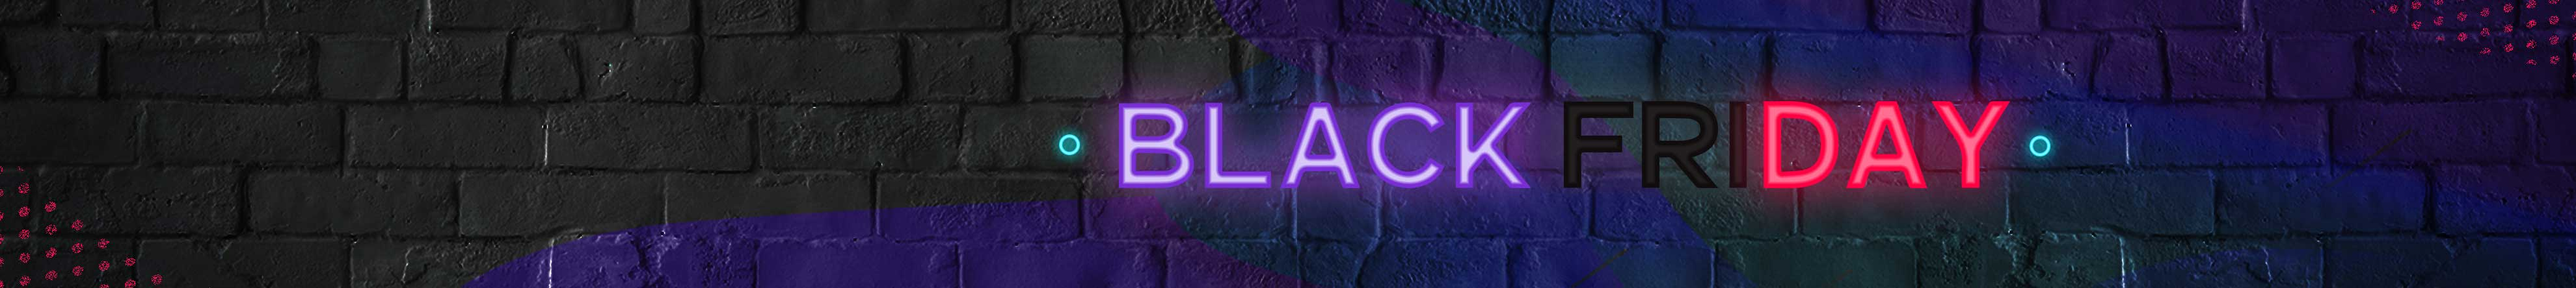
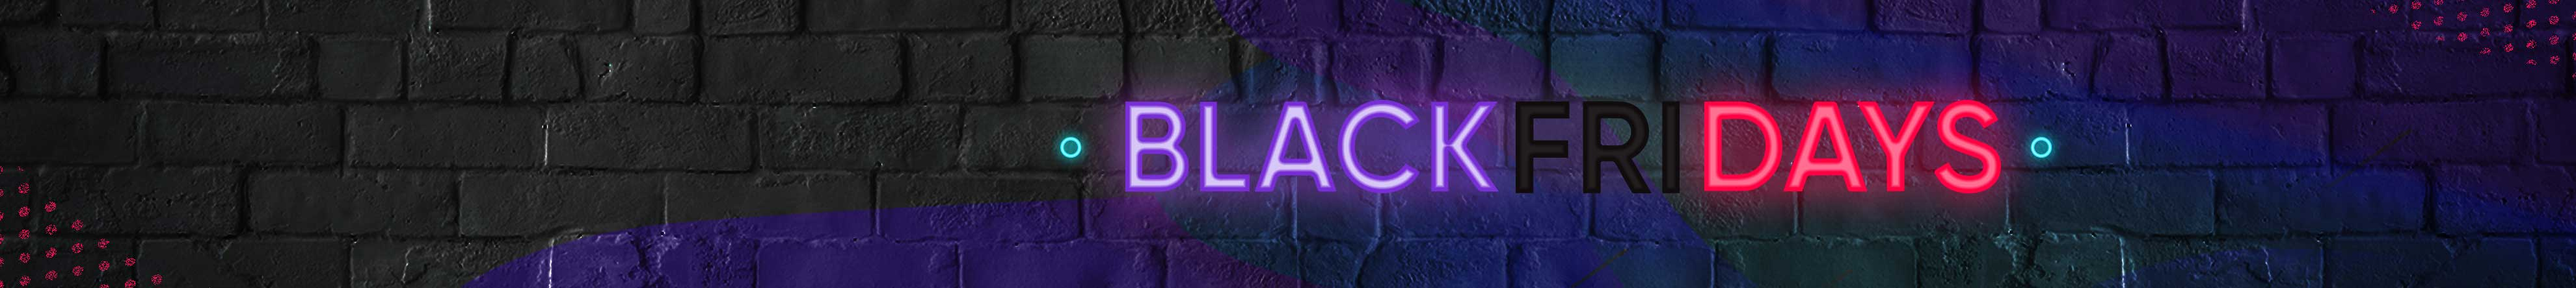
se agrega validacion para fecha de promocion

Changed region(s): [[0.4038, 0.2635, 0.8076, 0.732]]

diff --git a/src/pages/products-feed/products-feed.page.ts b/src/pages/products-feed/products-feed.page.ts
@@ -23,7 +23,7 @@ import {
 } from '@angular/core';
 import { NgxCarousel } from 'ngx-carousel';
 import { ProductsService } from '../../services/products.service';
-import { IMGS_BANNER, IMGS_BANNER_GUATEMALA } from '../../commons/constants/banner-imgs.contants';
+import { IMGS_BANNER, IMGS_BANNER_GUATEMALA, IMGS_BANNER_BANCOLOMBIA } from '../../commons/constants/banner-imgs.contants';
 import { CAROUSEL_CONFIG } from './carousel.config';
 import { ROUTES } from './../../router/routes';
 import { Subscription } from 'rxjs';
@@ -36,7 +36,7 @@ import { LoginService } from '../../services/login/login.service';
 import { ModalShareProductService } from '../../components/modal-shareProduct/modal-shareProduct.service';
 import { ModalTicketService } from '../../components/modal-ticket/modal-ticket.service';
 import { UserService } from '../../services/user.service';
-import { IMGS_BANNER_PROMO } from '../../commons/constants/banner-imgs-promo.constants';
+import { IMGS_BANNER_PROMO, IMGS_BANNER_PROMO_BANCOLOMBIA, IMGS_BANNER_GUATEMALA_PROMO } from '../../commons/constants/banner-imgs-promo.constants';
 import { CAROUSEL_PRODUCTS_CONFIG } from './carouselProducts.config';
 import { START_DATE_BF, END_DATE_BF } from '../../commons/constants/dates-promos.contants';
 
@@ -107,7 +107,7 @@ export class ProductsFeedPage implements OnInit, OnDestroy, AfterViewInit {
 
     /*Promo fecha determinada para cierta comunidad*/
     //
-    this.addPromoBannerColombia();
+    this.addPromoBanner();
   }
 
    ngOnInit() {
@@ -147,21 +147,32 @@ export class ProductsFeedPage implements OnInit, OnDestroy, AfterViewInit {
     this.changeDetectorRef.markForCheck();
   }
 
-  async addPromoBanner() {
+  async addBancolombiaBanner() {
     this.community = await this.userService.getCommunityUser();
     if (this.community && this.community.name === 'Grupo Bancolombia') {
-      this.imagesBanner = IMGS_BANNER_PROMO;
+      if (this.isPromoDate) {
+        this.imagesBanner = IMGS_BANNER_PROMO_BANCOLOMBIA;
+      } else {
+        this.imagesBanner = IMGS_BANNER_BANCOLOMBIA;
+      }
     }
   }
 
-  addPromoBannerColombia() {
+  addPromoBanner() {
     this.currentUrl = window.location.href;
     if (this.currentUrl.includes('gt')) {
-      this.imagesBanner = IMGS_BANNER_GUATEMALA;
+      if (this.isPromoDate) {
+        this.imagesBanner = IMGS_BANNER_GUATEMALA_PROMO;
+      } else {
+        this.imagesBanner = IMGS_BANNER_GUATEMALA;
+      }
     }else {
-     this.imagesBanner = IMGS_BANNER;
-     // this.imagesBanner = IMGS_BANNER;
-     this.addPromoBanner();
+      if (this.isPromoDate) {
+        this.imagesBanner = IMGS_BANNER_PROMO;
+      } else {
+        this.imagesBanner = IMGS_BANNER;
+      }
+     this.addBancolombiaBanner();
     }
   }
 

diff --git a/src/commons/constants/banner-imgs.contants.ts b/src/commons/constants/banner-imgs.contants.ts
@@ -1,14 +1,16 @@
 export const IMGS_BANNER = [
-  './assets/img/banner/black_friday.jpg',
   './assets/img/banner/10k.gif',
   './assets/img/banner/banner_Actualizaciones.gif',
   './assets/img/banner/banner_aliados.jpg',
 ];
 
 export const IMGS_BANNER_GUATEMALA = [
-  /*'./assets/img/banner/banner_10.jpg',*/
- // './assets/img/banner/banner_Actualizaciones.gif',
- // './assets/img/banner/banner_11.jpg',
   './assets/img/banner/banner_9.jpg',
- // './assets/img/banner/chefycnv.jpg',
+];
+
+export const IMGS_BANNER_BANCOLOMBIA = [
+  './assets/img/banner/10k.gif',
+  './assets/img/banner/banner_Actualizaciones.gif',
+  './assets/img/banner/fondos_de_empleados.jpg',
+  './assets/img/banner/banner_aliados.jpg',
 ];

diff --git a/src/commons/constants/banner-imgs-promo.constants.ts b/src/commons/constants/banner-imgs-promo.constants.ts
@@ -1,7 +1,19 @@
-export const IMGS_BANNER_PROMO = [
+export const IMGS_BANNER_PROMO_BANCOLOMBIA = [
   './assets/img/banner/black_friday.jpg',
   './assets/img/banner/10k.gif',
   './assets/img/banner/banner_Actualizaciones.gif',
   './assets/img/banner/fondos_de_empleados.jpg',
   './assets/img/banner/banner_aliados.jpg',
+];
+
+export const IMGS_BANNER_PROMO = [
+  './assets/img/banner/black_friday.jpg',
+  './assets/img/banner/10k.gif',
+  './assets/img/banner/banner_Actualizaciones.gif',
+  './assets/img/banner/banner_aliados.jpg',
+];
+
+export const IMGS_BANNER_GUATEMALA_PROMO = [
+  './assets/img/banner/black_friday.jpg',
+  './assets/img/banner/banner_9.jpg',
 ];

diff --git a/src/components/form-product/form-product.component.html b/src/components/form-product/form-product.component.html
@@ -213,7 +213,7 @@
                 </div>
                 <div *ngIf="isNewPriceShow && photosForm.get('checkNewPrice').value" class="form-group">
                     <div class="info-price">
-                        Tu producto se destacará con la etiqueta BLACK FRIDAY y solo destacará con este precio del 23 al 26 de noviembre.
+                        Tu producto se destacará con la etiqueta BLACK DAYS del 23 al 30 de noviembre, después volverá a tener precio original.
                     </div>
                 </div>
             </div>

diff --git a/src/components/form-product/form-product.component.ts b/src/components/form-product/form-product.component.ts
@@ -883,8 +883,15 @@ export class FormProductComponent implements OnInit, OnChanges {
   }
 
   get isNewPriceShow() {
-    if (this.photosForm.get('sell-type').value == 'VENTA' &&
+    if (this.isPromoDate && this.photosForm.get('sell-type').value == 'VENTA' &&
     (this.photosForm.get('price').value || this.photosForm.get('price').value > 0)) {
+      return true;
+    }
+    return false;
+  }
+
+  get isPromoDate() {
+    if (this.courrentDate >= this.startDate && this.courrentDate <= this.endDate) {
       return true;
     }
     return false;
